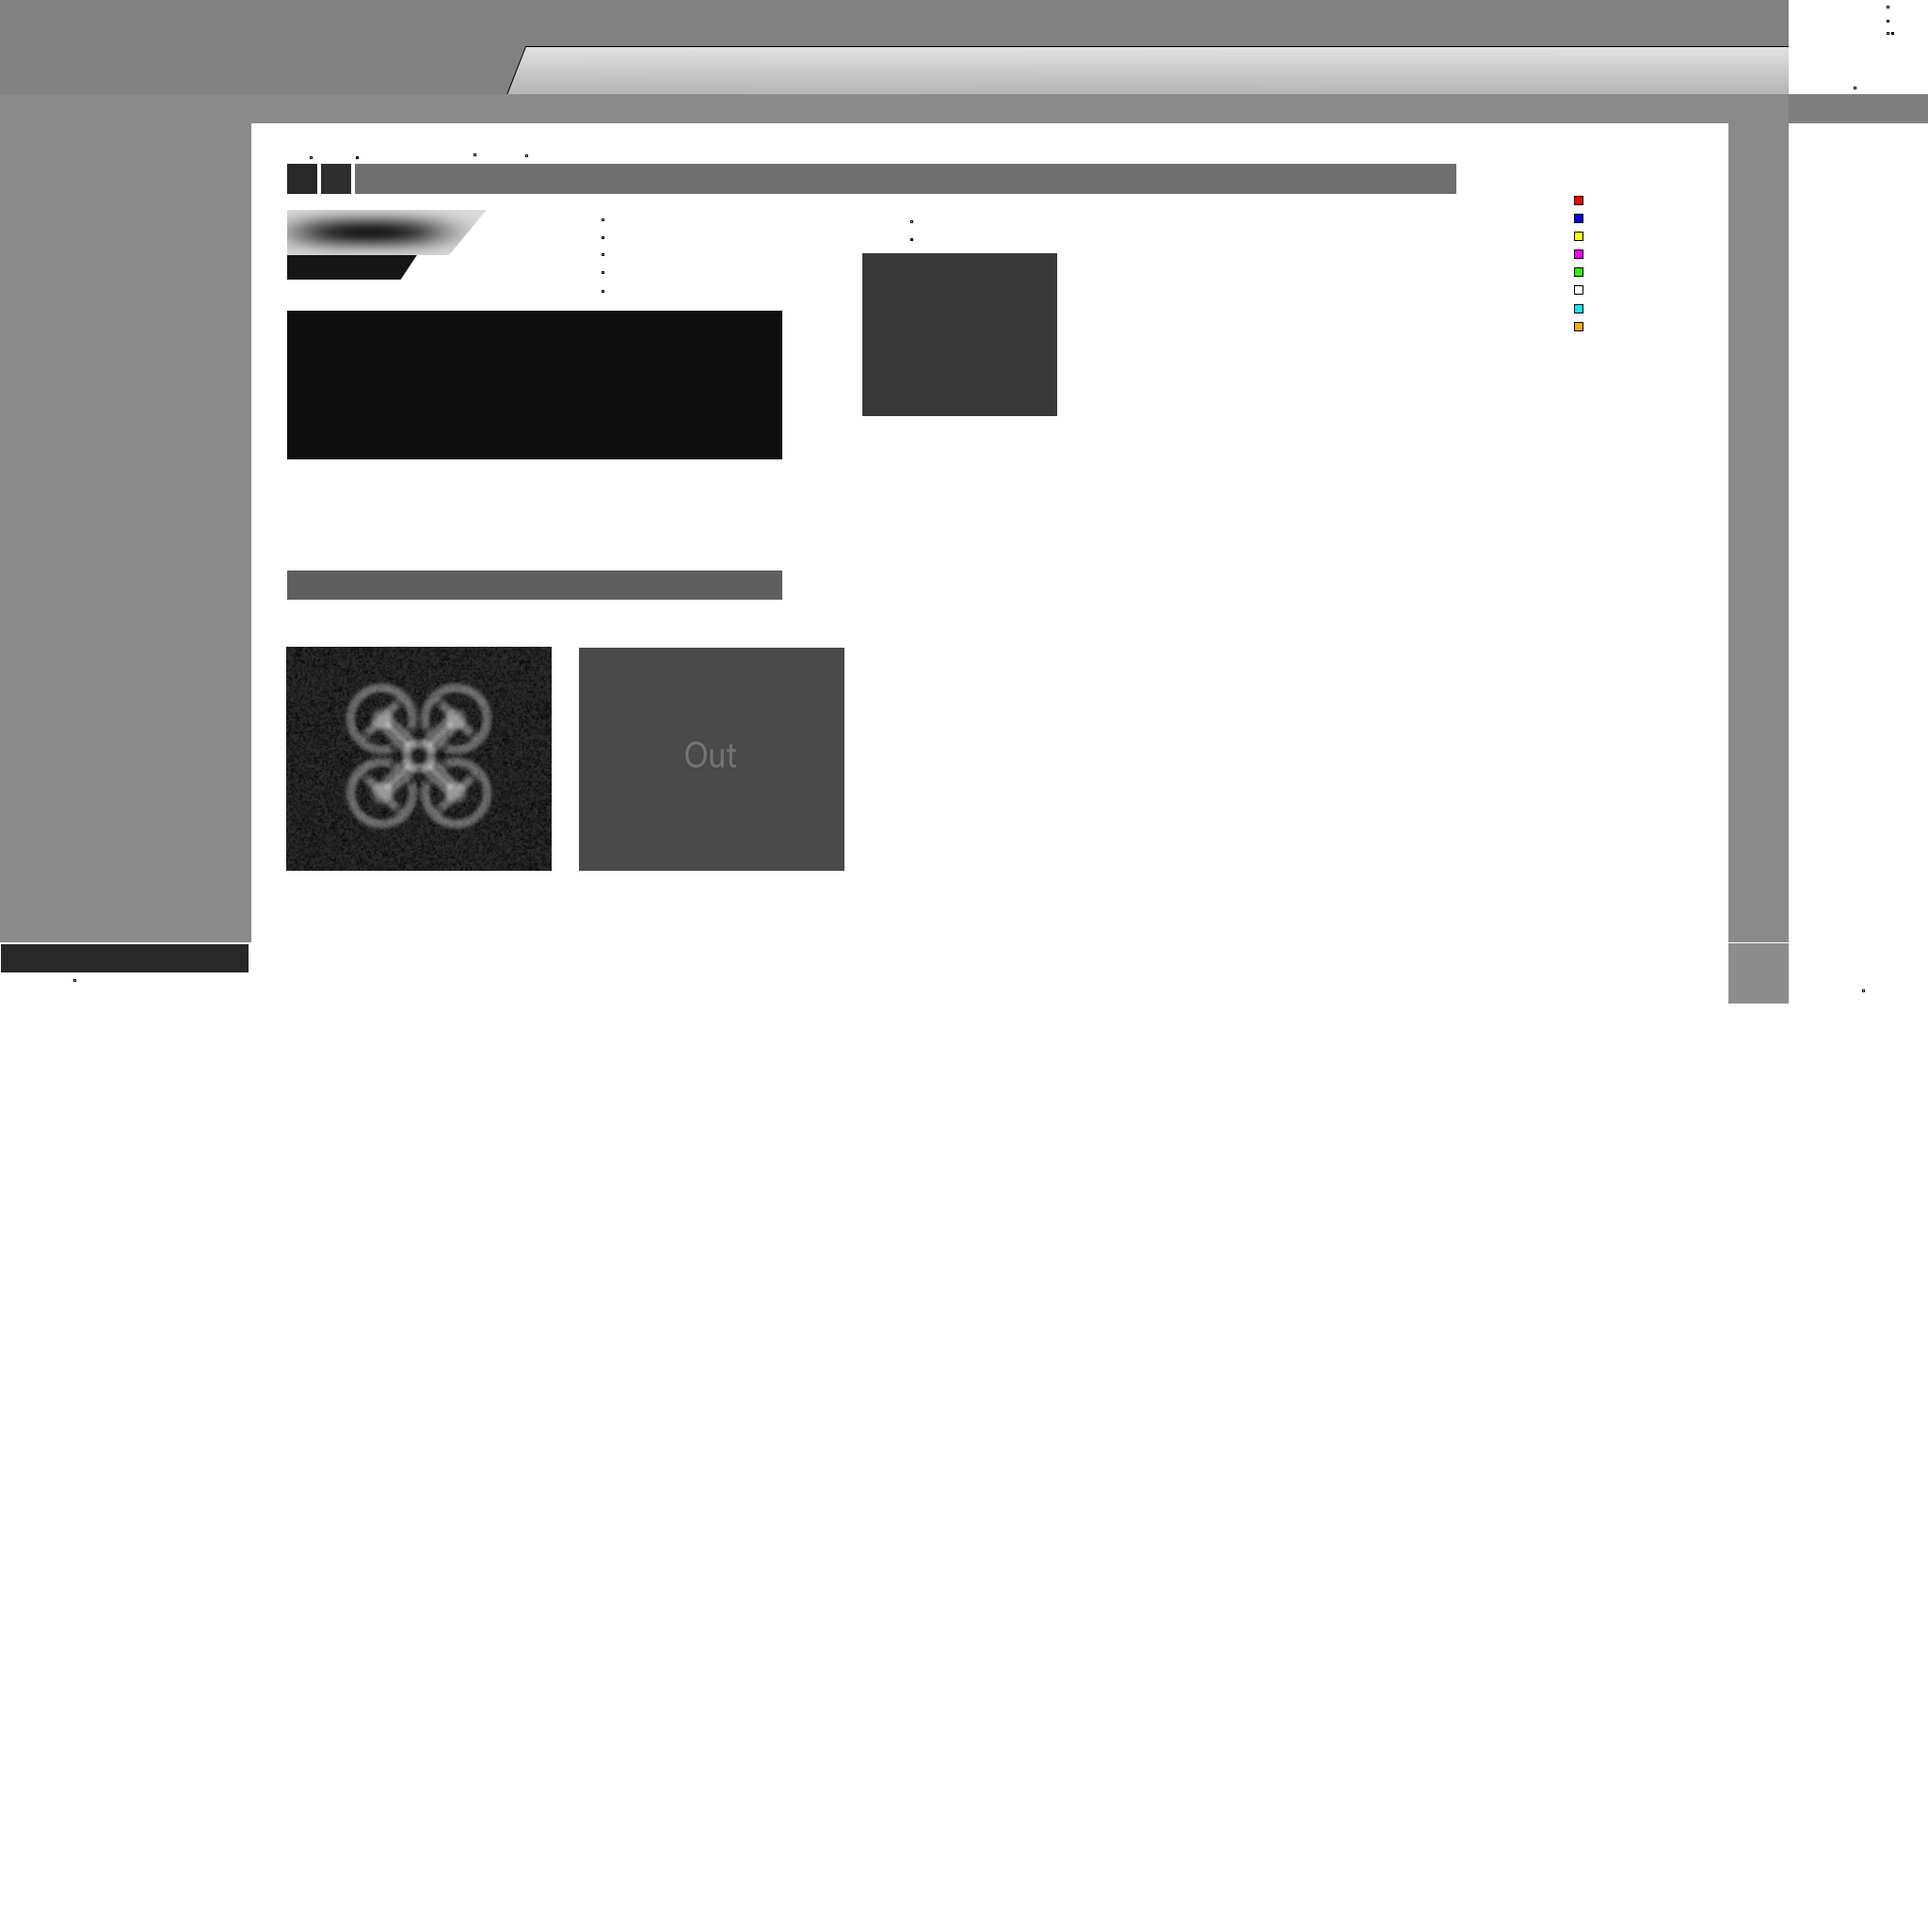
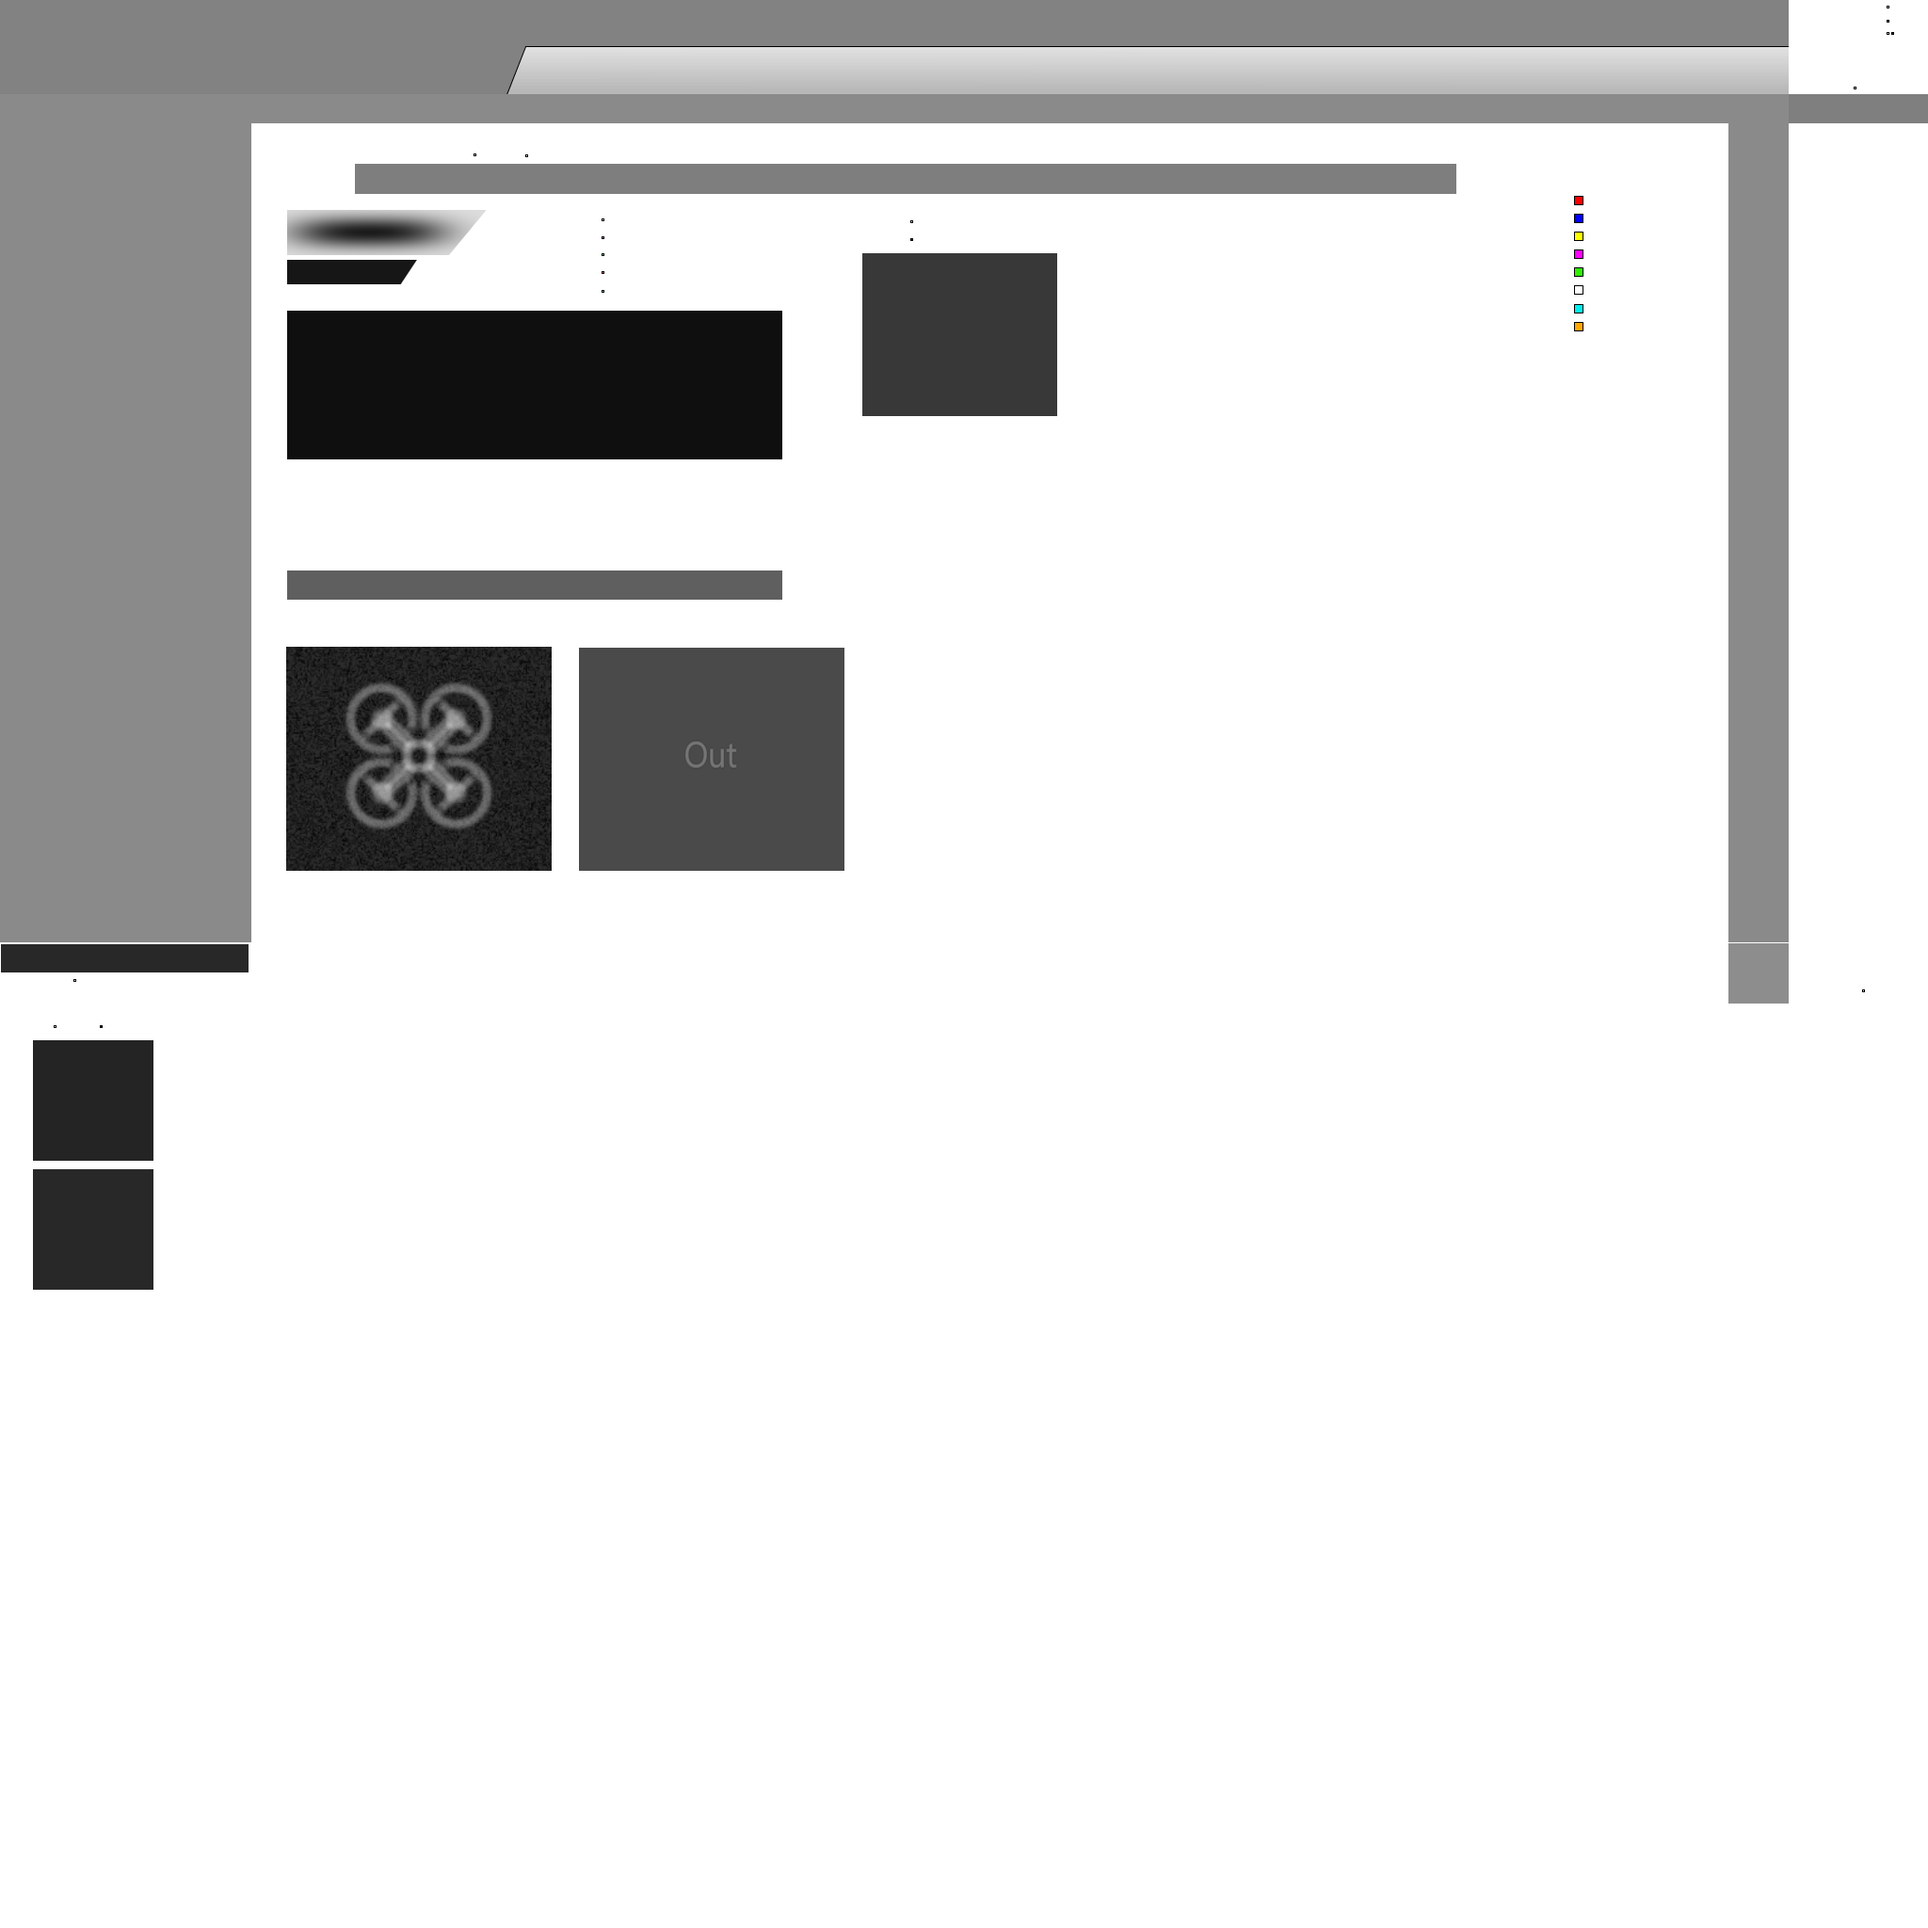
Updating existing themes

Changed region(s): [[0.0, 0.5312, 0.0938, 0.6875], [0.1562, 0.0625, 0.2188, 0.1562]]

diff --git a/UI/Theme2.cs b/UI/Theme2.cs
@@ -28,6 +28,7 @@ namespace UI
         [XmlIgnore()]
         [Browsable(false)]
         public DateTime ReadTime { get; private set; }
+        public TextureRegion Background { get; set; }
 
         public string FontFamily { get; set; }
 
@@ -43,7 +44,6 @@ namespace UI
         public TextureRegion TopPanel { get; set; }
         public TextureColor TopPanelText { get; set; }
 
-        public TextureRegion Background { get; set; }
 
         public TextureRegion TabsBackground { get; set; }
         public TextureRegion TabForeground { get; set; }
@@ -209,7 +209,7 @@ namespace UI
             RightText = new TextureColor() { Filename = "theme.png", X = 1979, Y = 1052 };
 
             ChannelPilotNameBackground = new TextureRegion() { Filename = "theme.png", X = 305, Y = 223, W = 211, H = 48 };
-            ChannelPBBackground = new TextureRegion() { Filename = "theme.png", X = 305, Y = 271, W = 138, H = 26 };
+            ChannelPBBackground = new TextureRegion() { Filename = "theme.png", X = 305, Y = 276, W = 138, H = 26 };
             ChannelLapBackground = new TextureRegion() { Filename = "theme.png", X = 305, Y = 606, W = 526, H = 31 };
             ChannelOverlayPanel = new TextureRegion() { Filename = "theme.png", X = 305, Y = 330, W = 526, H = 158 };
             ChannelText = new TextureColor() { Filename = "theme.png", X = 640, Y = 233 };

diff --git a/UI/Nodes/PatreonsNode.cs b/UI/Nodes/PatreonsNode.cs
@@ -24,7 +24,7 @@ namespace UI.Nodes
 
         public PatreonsNode() 
         {
-            ColorNode background = new ColorNode(Theme.Current.Panel.XNA);
+            BorderPanelNode background = new BorderPanelNode();
             background.RelativeBounds = new RectangleF(0.0f, 0.02f, 1.0f, 0.98f);
             background.Scale(0.8f, 1);
             AddChild(background);
